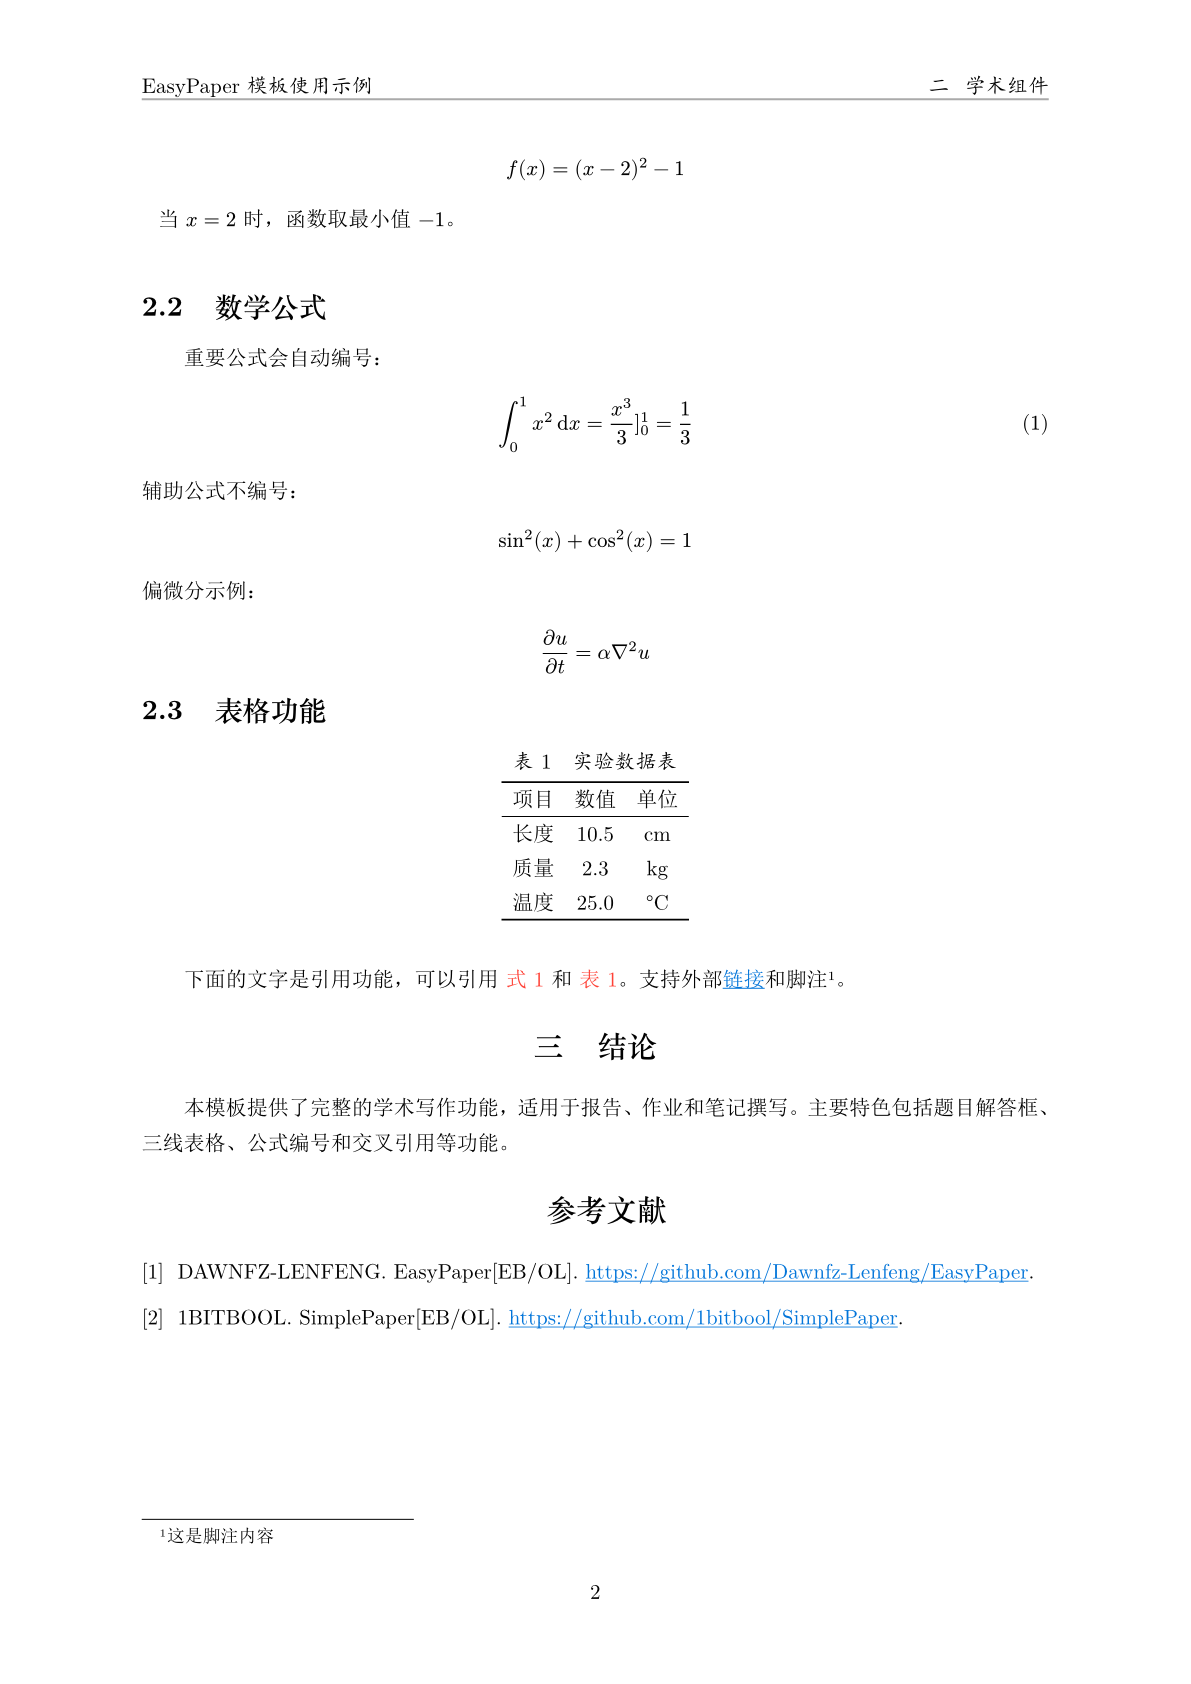
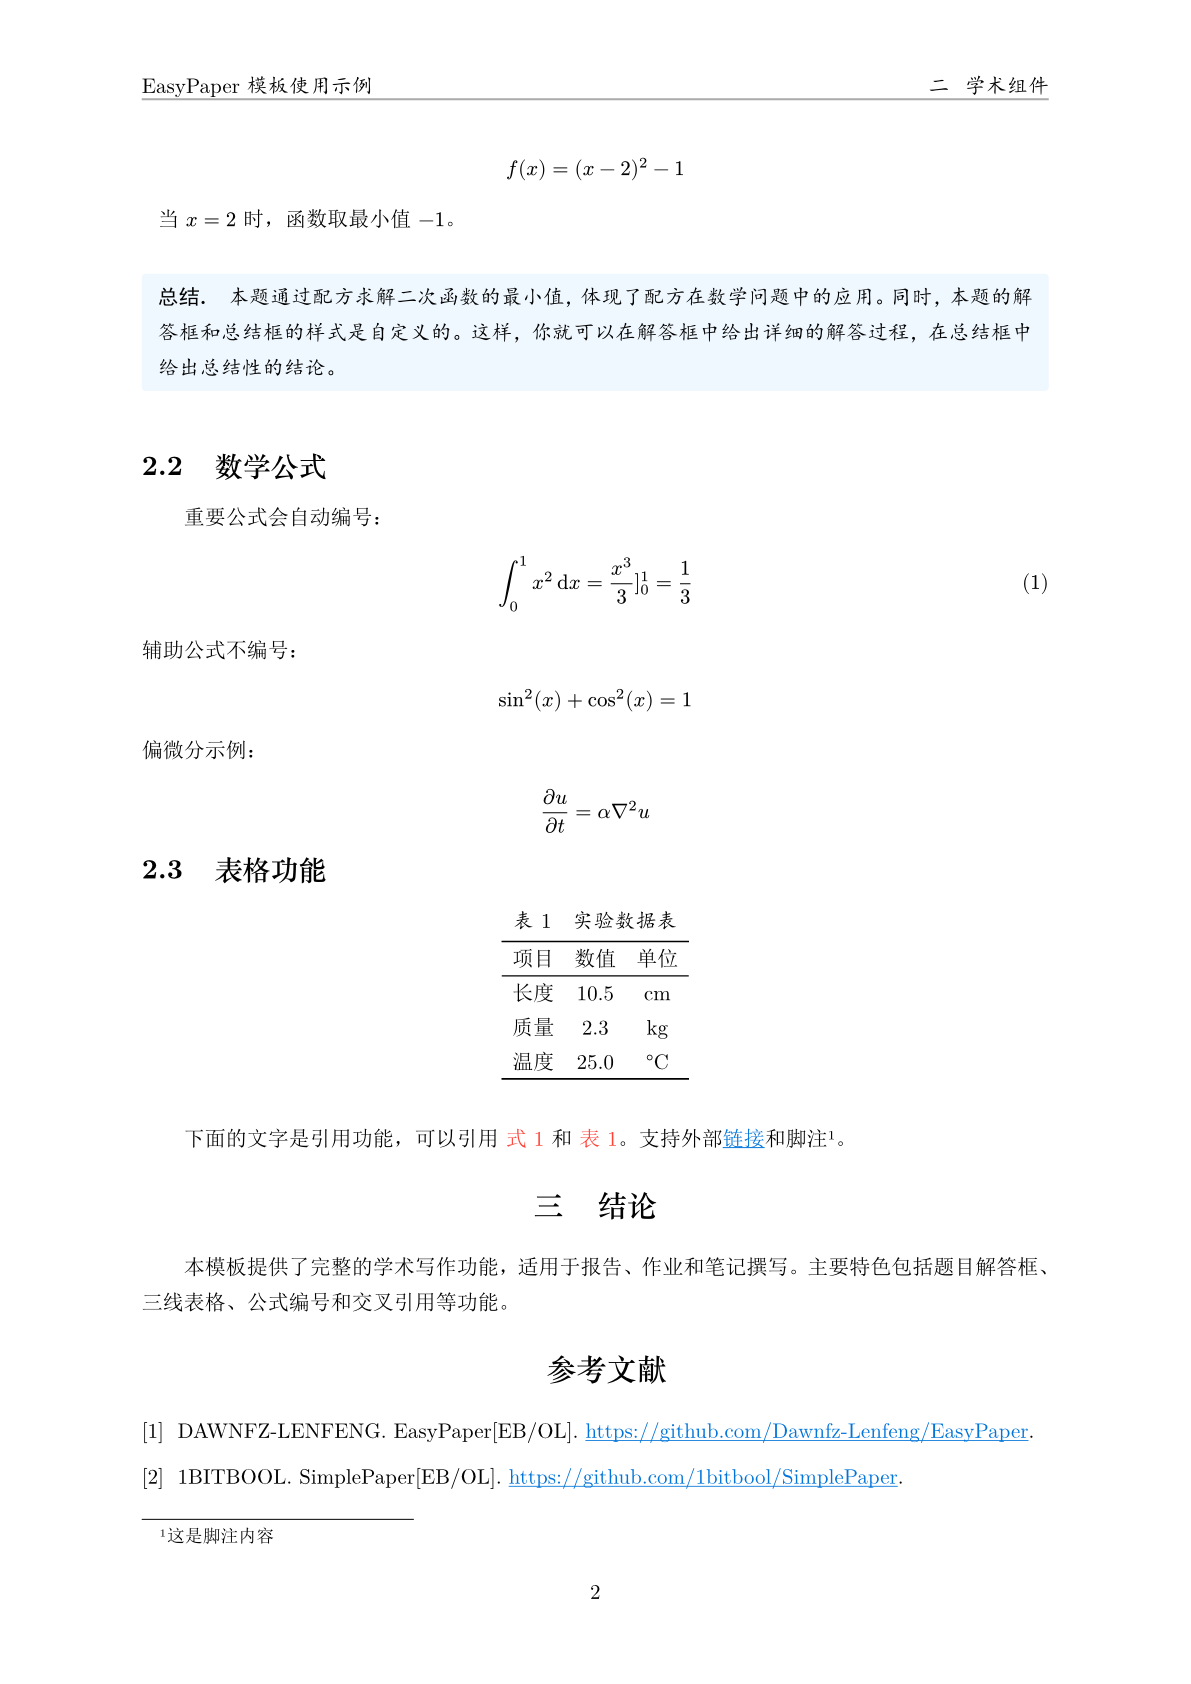
feat: add summary block

diff --git a/README.md b/README.md
@@ -47,6 +47,13 @@
 ]
 ```
 
+**总结框：**
+```typst
+#summary[
+  这里可以写总结性的内容。
+]
+```
+
 **三线表格：**
 ```typst
 #show table: three-line-table // 启用三线表格样式
